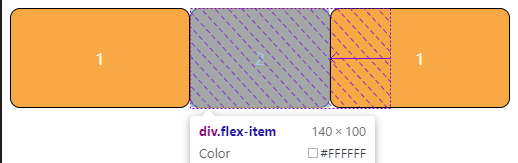
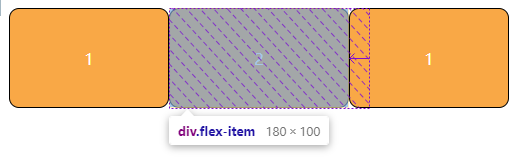
chore

diff --git a/eminoda.github.io/source/_drafts/flex-grow-and-shrink.md b/eminoda.github.io/source/_drafts/flex-grow-and-shrink.md
@@ -154,18 +154,13 @@ flex: inherit
 
 # flex-shrink
 
-## 元素设置 flex-shrink 后，在不同 width 下的变化
+> 指定了 flex 元素的收缩规则。flex 元素仅在默认宽度之和大于容器的时候才会发生收缩，其收缩的大小是依据 flex-shrink 的值。默认值为 1。
 
-```css
-.flex-content {
-  display: flex;
-  justify-content: space-around;
-  width: 500px;
-}
-.flex-content .flex-item {
-  flex-shrink: 1;
-}
-```
+## 在不同 width 下的变化
+
+**父级宽度（600px）= 子元素宽度之和（600px）：**
+
+两者宽度相同，不做收缩处理。
 
 ```css
 .flex-content {
@@ -178,13 +173,30 @@ flex: inherit
 }
 ```
 
-## 不同 flex-shrink 值，缩小的比例
+{% asset_image flex-shrink-width-2.png %}
+
+**父级宽度（500px）< 子元素宽度之和（600px）：**
 
 ```css
-.flex-content .flex-item[num="2"] {
+.flex-content {
+  display: flex;
+  justify-content: space-around;
+  width: 500px;
+}
+.flex-content .flex-item {
   flex-shrink: 1;
 }
 ```
+
+缺少空间为 100px，每个元素收缩率为：1/(1\*3)，即收缩长度为：200-100\*1/(1\*3) = 166.67
+
+{% asset_image flex-shrink-width-1.png %}
+
+## 只有其中一元素设置了 flex-shrink
+
+**flex-shrink 为整数时：**
+
+第 1 个和第 2 个元素保持原 200px，缺少空间为：500-200\*2 = 100，中间元素将收缩到 200-100\*(2/4)=150
 
 ```css
 .flex-content .flex-item[num="2"] {
@@ -192,12 +204,16 @@ flex: inherit
 }
 ```
 
+{% asset_image flex-shrink-value-1.png %}
+
+**flex-shrink 为小数时：**
+
+中间元素将收缩到 200-100\*0.5/(2+.5)=180
+
 ```css
 .flex-content .flex-item {
   flex-shrink: 0.5;
 }
 ```
 
-```css
-
-```
+{% asset_image flex-shrink-value-2.png %}
